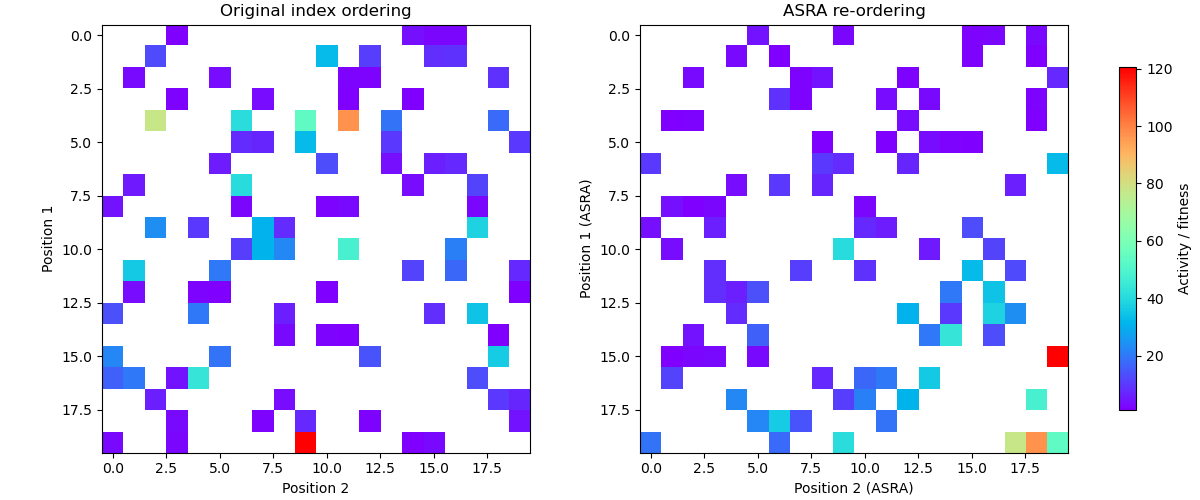
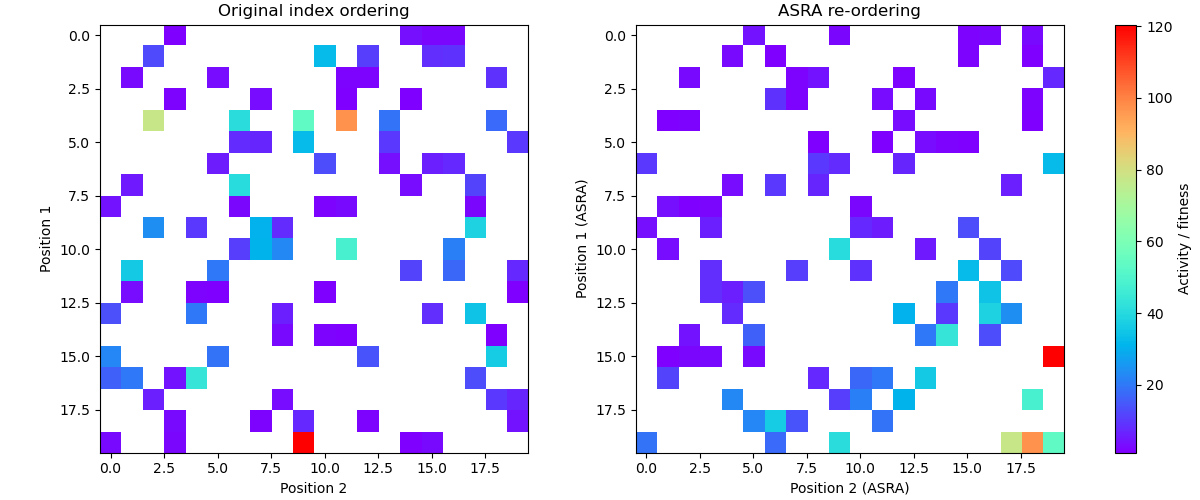
fix colorbar size

diff --git a/asra/plotting.py b/asra/plotting.py
@@ -75,7 +75,7 @@ def plot_asra_paper_data(data_path: str, outfile: str):
     axes[1].set_ylabel("Position 1 (ASRA)")
 
     # --- Colorbar: place to the right cleanly ---
-    cbar = fig.colorbar(im1, ax=axes, location="right", shrink=0.8)
+    cbar = fig.colorbar(im1, ax=axes, location="right", shrink=1.0)
     cbar.set_label("Activity / fitness")
 
     fig.savefig(outfile)
